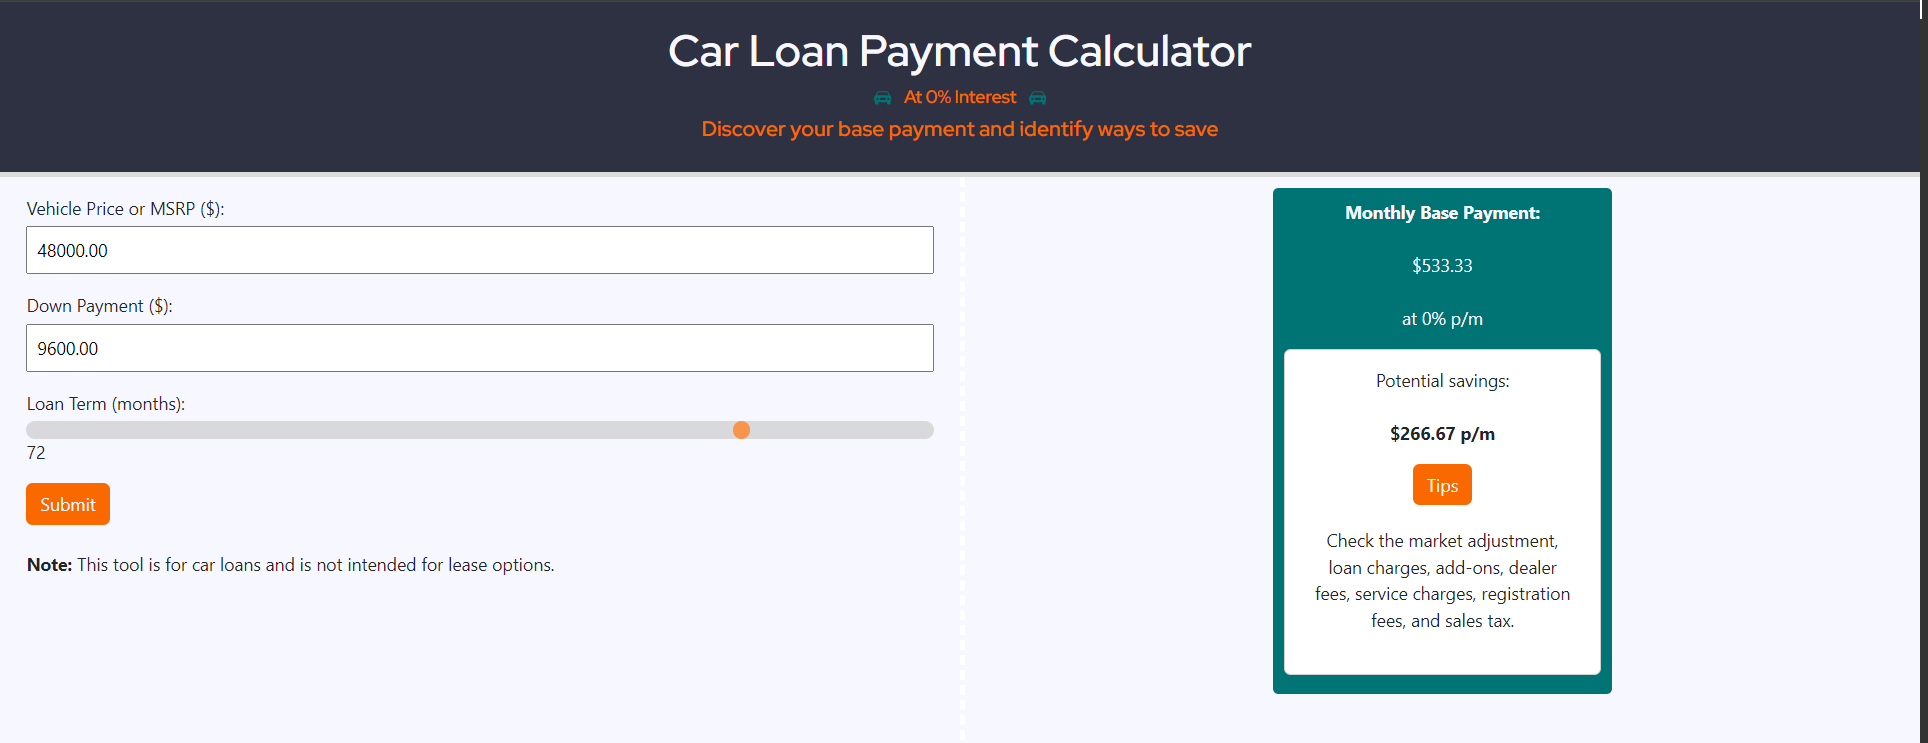
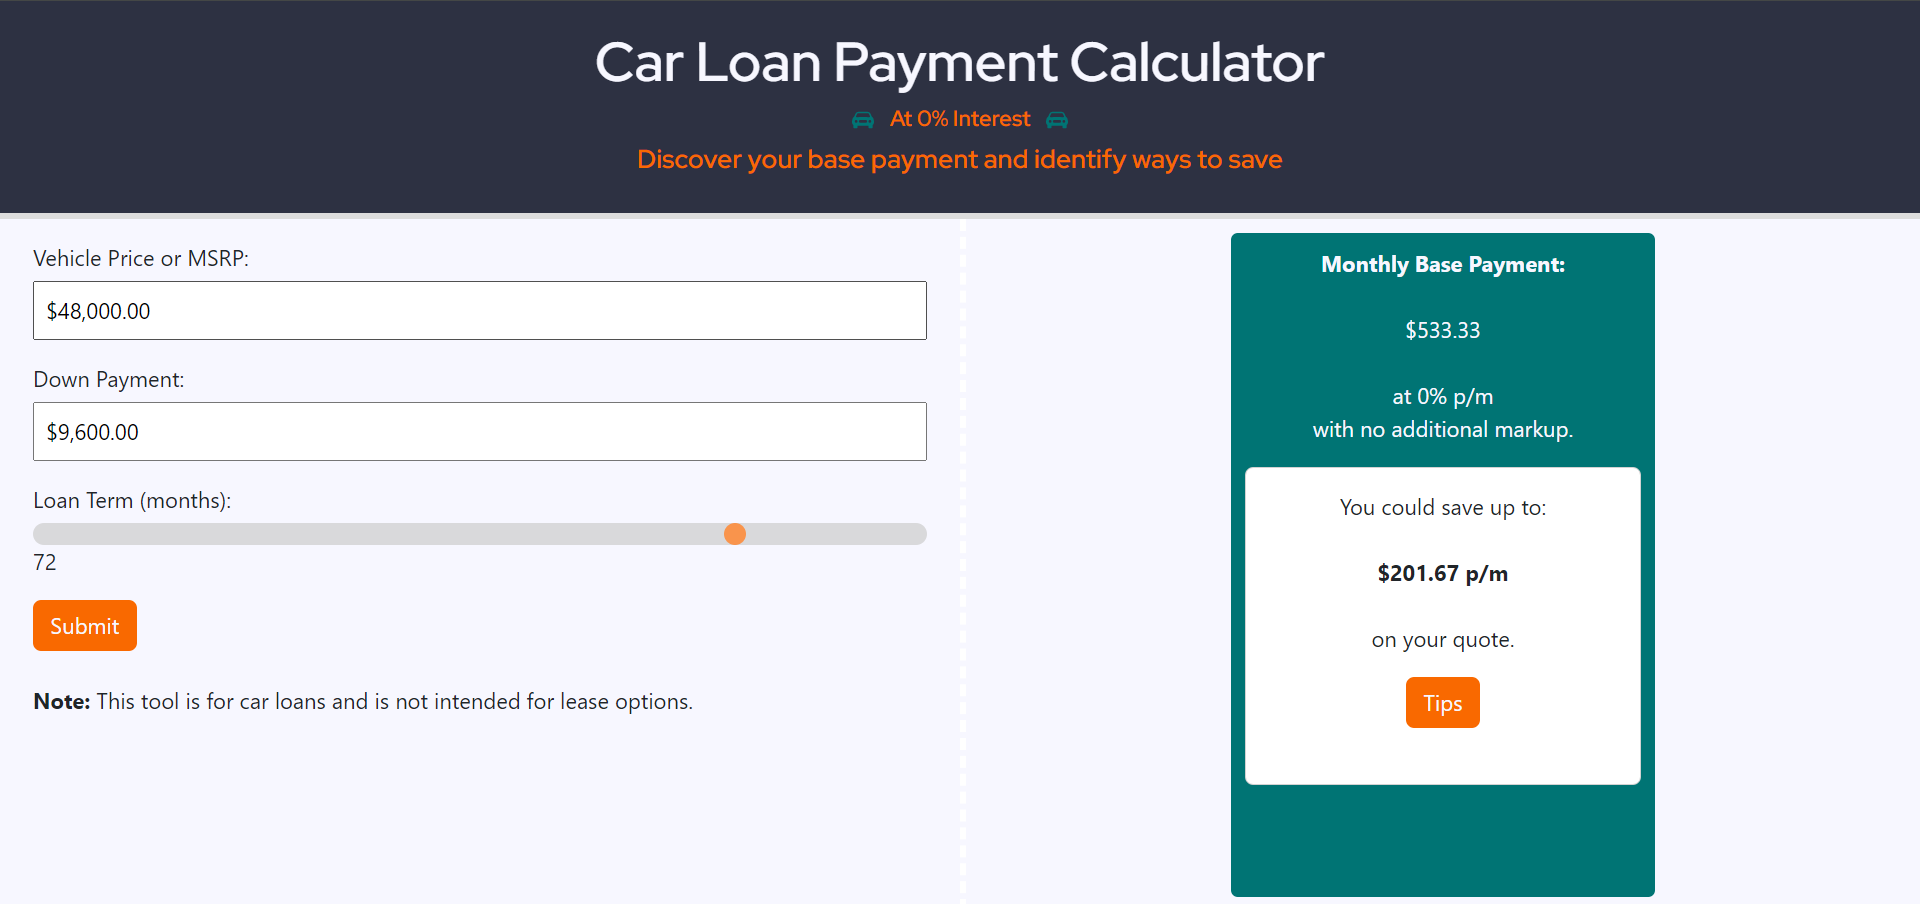
update README

diff --git a/README.md b/README.md
@@ -2,12 +2,12 @@
 
 ## Description
 
-This project helps potential car buyers determine their monthly car loan payments at 0% interest, providing an objective starting point to compare with a third-party quote. By understanding the base payment, users can identify additional costs (i.e. market-adjustment, loan charges, add-ons, dealer fees, service charges, registration fees, and sales tax) in order to understand the true cost of purchasing a vehicle, and increasing the liklihood that the user will make an informed purchase decision.
+This project enables car buyers to save on their purchase. It determines the monthly base payment based on the vehicle price or MSRP, down payment, and loan term at 0% interest and with no additional markup. The monthly base payment provides an objective starting point to compare with a third-party quote. The application calculates the monthly base payment and subtracts the third-party quote in order to determine potential savings. The user is provided with tips to identify additional costs (i.e. market-adjustment, loan charges, add-ons, dealer fees, service charges, registration fees, and sales tax), enabling the user to make a more informed purchase decision.
 
 ## Features
 
-- Calculate monthly car loan payments at 0% interest.
-- Compare the calculated payment to a third-party quote.
+- Calculate monthly car loan payments at 0% interest without additional markup.
+- Compare the calculated payment with a third-party quote.
 - Discover potential monthly savings.
 - Find suggestions for understanding additional costs.
 
@@ -22,12 +22,12 @@ This project helps potential car buyers determine their monthly car loan payment
 
 3. Click the "Submit" button.
 4. Enter a monthly-payment quote from a third-party (optional).
-5. View the base calculation at 0% and the difference from the quote.
+5. View the monthly base payment and potential savings.
 6. Click "Tips" button for suggestions to better understand potential charges.
 
 ### Example
 
-If the user enters a vehicle price of $48,000, a down payment of $9,600, and a loan term of 72 months, a monthly base payment of $533.33 at 0% interest will be displayed. If a third-party quote was entered, the difference between the third party quote and the base monthly payment will be shown, indicating potential savings. Suggestions for additional costs are indicated.
+If the user enters a vehicle price of $48,000, a down payment of $9,600, and a loan term of 72 months, a monthly base payment of $533.33 will be displayed. If a third-party quote was entered, the difference between the third party quote and the base monthly payment will be shown, indicating potential savings. Suggestions for identifying additional costs are indicated.
 
 ## Screenshot
 
